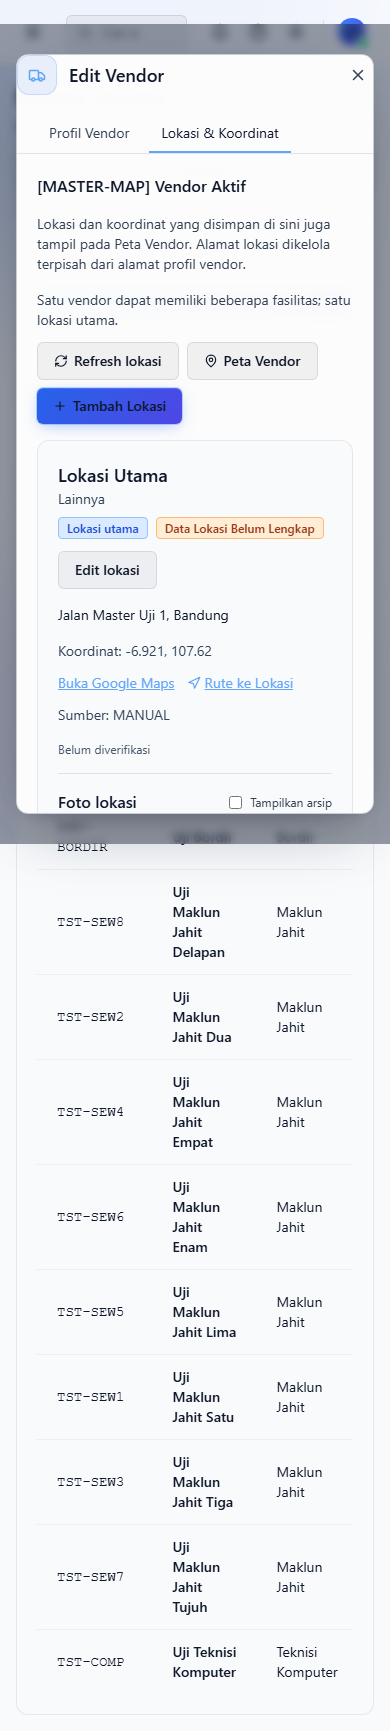
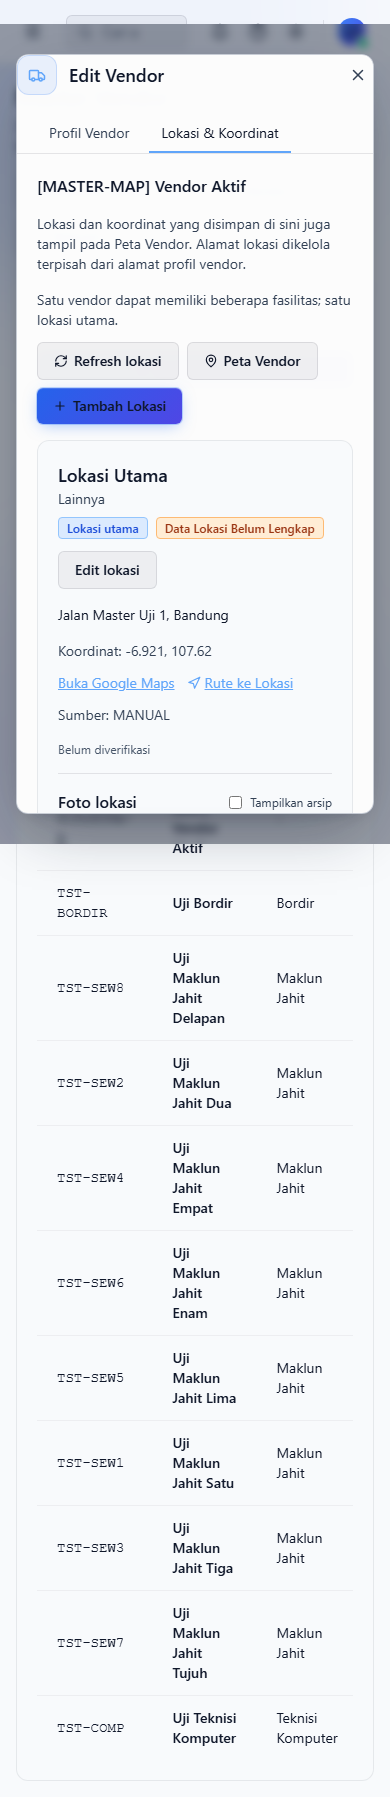
feat(vendor): unify vendor management navigation

diff --git a/src/components/layout/MainLayout.jsx b/src/components/layout/MainLayout.jsx
@@ -86,7 +86,6 @@ export default function MainLayout() {
     { to: '/locations', icon: MapPin, label: 'Lokasi Aset', moduleKey: 'locations' },
     { to: '/departments', icon: Building2, label: 'Struktur Organisasi', moduleKey: 'departments' },
     { to: '/asset-responsibles', icon: UserCheck, label: 'Penanggung Jawab', moduleKey: 'asset_responsibles' },
-    { to: '/vendors', icon: Truck, label: 'Vendor', moduleKey: 'vendors' },
   ];
 
   const assetItems = [
@@ -99,6 +98,7 @@ export default function MainLayout() {
   ];
 
   const { hasAccess } = useRolePermissions();
+  const canAccessActiveVendors = ['super_admin', 'hrd'].includes(role?.role_name) && hasAccess('vendors');
   const visibleNavItems = navItems.filter(item => !item.moduleKey || hasAccess(item.moduleKey));
   const visibleMasterDataItems = masterDataItems.filter(item => !item.moduleKey || hasAccess(item.moduleKey));
   const visibleAssetItems = assetItems.filter(item => !item.moduleKey || hasAccess(item.moduleKey));
@@ -213,22 +213,23 @@ export default function MainLayout() {
             </NavLink>
           ))}
 
-          {['super_admin', 'hrd', 'direksi', 'sourcing'].includes(role?.role_name) && (hasAccess('vendor_management') || hasAccess('vendor_followups') || hasAccess('vendor_map')) && (
+          {['super_admin', 'hrd', 'direksi', 'sourcing'].includes(role?.role_name) && (canAccessActiveVendors || hasAccess('vendor_management') || hasAccess('vendor_followups') || hasAccess('vendor_map')) && (
             <>
               <SectionLabel>Manajemen Vendor</SectionLabel>
-              {hasAccess('vendor_management') && <>
-              <NavLink to="/vendor" end onClick={() => setSidebarOpen(false)} className={navLinkClass}>
+              {hasAccess('vendor_management') && <NavLink to="/vendor" end onClick={() => setSidebarOpen(false)} className={navLinkClass}>
                 <Home size={16} className="flex-shrink-0" /> Dashboard Vendor
-              </NavLink>
-              <NavLink
+              </NavLink>}
+              {canAccessActiveVendors && <NavLink to="/vendors" onClick={() => setSidebarOpen(false)} className={navLinkClass}>
+                <Truck size={16} className="flex-shrink-0" /> Vendor Aktif
+              </NavLink>}
+              {hasAccess('vendor_management') && <NavLink
                 to="/vendor/database"
                 onClick={() => setSidebarOpen(false)}
                 className={navLinkClass}
               >
                 <Users size={16} className="flex-shrink-0" />
-                Database Calon Vendor
-              </NavLink>
-              </>}
+                Calon Vendor
+              </NavLink>}
               {hasAccess('vendor_followups') && <NavLink to="/vendor/followups" onClick={() => setSidebarOpen(false)} className={navLinkClass}>
                 <MessageSquare size={16} className="flex-shrink-0" /> Follow-Up Vendor
               </NavLink>}

diff --git a/src/pages/VendorsPage.jsx b/src/pages/VendorsPage.jsx
@@ -1,4 +1,5 @@
 import { lazy, Suspense, useState, useEffect, useCallback, useRef } from 'react';
+import { Link } from 'react-router-dom';
 import { supabase } from '../lib/supabase';
 import { useAuth } from '../contexts/AuthContext';
 import { useRolePermissions } from '../hooks/useRolePermissions';
@@ -164,12 +165,16 @@ export default function VendorsPage() {
       <div className="flex flex-col sm:flex-row sm:items-center justify-between gap-4">
         <div>
           <h1 className="text-2xl md:text-3xl font-semibold text-white tracking-tight">Master Vendor</h1>
-          <p className="text-sm text-ink-400 mt-1">Kelola daftar vendor dan supplier</p>
+          <p className="text-sm text-ink-400 mt-1">Data vendor operasional, status aktif/nonaktif, lokasi dan koordinat</p>
         </div>
+        <div className="flex flex-wrap gap-2">
+        {hasAccess('vendor_management') && <Link to="/vendor" className="btn-secondary text-sm">Dashboard Vendor</Link>}
+        {canReadLocations && <Link to="/vendor/map" className="btn-secondary text-sm"><MapPin size={14} /> Peta Vendor</Link>}
         <button onClick={fetchVendors} className="btn-secondary text-sm" disabled={loading}>
           <RefreshCw size={14} className={`${loading ? 'animate-spin' : ''}`} />
           Refresh
         </button>
+        </div>
       </div>
 
       <div className="card">

diff --git a/src/lib/permissions.js b/src/lib/permissions.js
@@ -9,7 +9,7 @@ export const MODULES = [
   { key: 'locations', label: 'Lokasi Aset', icon: 'MapPin' },
   { key: 'departments', label: 'Struktur Organisasi', icon: 'Building2' },
   { key: 'asset_responsibles', label: 'Penanggung Jawab', icon: 'UserCheck' },
-  { key: 'vendors', label: 'Vendor', icon: 'Truck' },
+  { key: 'vendors', label: 'Vendor: Data Operasional / Vendor Aktif', icon: 'Truck' },
   { key: 'vendor_management', label: 'Vendor: Dashboard & Database Calon', icon: 'Users' },
   { key: 'vendor_followups', label: 'Vendor: Follow-Up & Aktivitas', icon: 'PhoneCall' },
   { key: 'vendor_samples', label: 'Vendor: Pengujian Sampel', icon: 'ClipboardList' },

diff --git a/docs/vendor-management/VENDOR_NAVIGATION_INTEGRATION_20261110.md b/docs/vendor-management/VENDOR_NAVIGATION_INTEGRATION_20261110.md
@@ -1,0 +1,86 @@
+# Integrasi navigasi Manajemen Vendor — 10 November 2026
+
+Status **selesai dan diuji lokal; belum di-deploy**. User memilih menyatukan menu
+menjadi Dashboard, Vendor Aktif, Calon Vendor, Follow-Up dan Peta dalam satu kelompok
+Manajemen Vendor. Ini melanjutkan perubahan input koordinat Master Vendor pada
+commit `ec617b81`; deployment kedua perubahan tetap memerlukan persetujuan user.
+
+## Susunan akhir
+
+| Menu | Alamat tetap | Fungsi |
+|---|---|---|
+| Dashboard Vendor | `/vendor` | Ringkasan sourcing, aktivitas, tugas dan kelengkapan lokasi |
+| Vendor Aktif | `/vendors` | Master operasional existing, kontak, status dan lokasi/koordinat |
+| Calon Vendor | `/vendor/database` | Profil kandidat dan tahapan kualifikasi |
+| Follow-Up Vendor | `/vendor/followups` | Riwayat komunikasi dan tugas tindak lanjut |
+| Peta Vendor | `/vendor/map` | Titik lokasi vendor aktif maupun calon vendor sesuai filter/izin |
+
+Tautan Vendor pada Master Data dipindahkan ke kelompok Manajemen Vendor dengan
+nama **Vendor Aktif**. Halaman master tetap mempertahankan pengelolaan status
+aktif/nonaktif existing; tidak menyembunyikan data nonaktif atau mengubah filter
+secara diam-diam. URL `/vendors` dan seluruh referensi aset/kontrak tetap sama.
+
+Dashboard mendapat tautan terpisah Vendor Aktif dan Calon Vendor. Halaman master
+mendapat tautan balik Dashboard Vendor dan Peta Vendor sesuai akses pengguna.
+Input koordinat/foto tetap berada pada halaman master melalui tombol Koordinat
+dan tab Lokasi & Koordinat; [laporan fitur tersebut](MASTER_VENDOR_COORDINATES_20261110.md).
+
+## Hubungan data dan akses
+
+Master operasional tetap pada `vendors`, profil sourcing pada `vendor_candidates`
+dan identitas terhubung melalui `vendor_id`. Lokasi/foto memakai backend Fase 3
+yang sama. Tidak ada penggabungan tabel, penyalinan massal vendor atau aktivasi calon
+vendor otomatis. Rumus KPI dan RPC dashboard tetap mengikuti implementasi existing;
+integrasi ini tidak menambahkan total gabungan master + kandidat yang berpotensi
+menghitung dua kali vendor terhubung.
+
+Menu Vendor Aktif memerlukan role Super Admin/HRD dan module key `vendors`, sesuai
+guard halaman master existing. Sourcing/Direksi tetap memakai halaman sourcing
+yang diizinkan. HRD yang hanya memiliki akses master tetap melihat kelompok
+Manajemen Vendor beserta Vendor Aktif, tanpa bergantung pada izin sourcing.
+Nama modul `vendors` pada pengaturan akses diperjelas menjadi Vendor: Data
+Operasional / Vendor Aktif; key dan baris permission database tidak diubah.
+
+Tidak ada perubahan pada route guard App.jsx, RLS, role, permission database,
+master/aset/kontrak, schema/migration, environment, dependency atau data produksi.
+Tidak melakukan push Git atau deployment.
+
+## File perubahan
+
+- `src/components/layout/MainLayout.jsx`: pindahkan master ke kelompok vendor,
+  urutan lima menu dan tampilkan sesuai role/module.
+- `src/pages/vendor/VendorDashboardPage.jsx`: tautan Vendor Aktif/Calon Vendor.
+- `src/pages/VendorsPage.jsx`: tautan Dashboard/Peta dan keterangan data operasional.
+- `src/lib/permissions.js`: label modul master diperjelas; key tetap `vendors`.
+- `scripts/test-vendor-navigation-browser.mjs`: browser test navigasi dan akses.
+- Dokumen, JSON/log hasil dan screenshot sintetis pendukung.
+
+## Verifikasi
+
+| Pengujian | Hasil |
+|---|---|
+| Navigasi terpadu | **7 PASS**: urutan dan tidak duplikat, tautan silang, route, mobile, master-only, pembatasan role dan checksum |
+| Regresi input koordinat master | **16 PASS**: cancel/validasi, simpan/edit, multi-fasilitas, peta/rute, guard, retry, vendor baru dan mobile |
+| Build | Exit **0**, 1580 modul, Vite 6,64 detik, service worker 159 ms |
+| Baseline | Enam checksum master/aset/profil/role/permission/notifikasi Docker identik setelah tes/cleanup |
+
+Total **23 pemeriksaan browser lulus**. Test navigasi memakai backend Docker nyata;
+fixture izin master-only disimulasikan pada response API browser tanpa menulis
+role_permissions. Awalnya fixture HRD Docker tidak memiliki key `vendors`, sehingga
+uji positif master-only belum mewakili skenario yang dimaksud. Fixture browser
+diperjelas dengan `vendors=true` dan modul sourcing=false, lalu seluruh uji lulus.
+Guard role tetap diperiksa menggunakan akun/JWT lokal nyata.
+
+RPC reminder dinonaktifkan melalui mock pada test navigasi agar pemeriksaan menu
+tidak menulis notifikasi. Tidak ada request tes ke Supabase/Google Maps produksi;
+tile OSM menggunakan **TEST TILE**. Regresi koordinat memakai fixture bisnis Docker
+yang dihapus setelah selesai. Tidak menguji CRUD modul aset/kontrak produksi.
+
+Bukti: [navigasi](phase3-evidence/VENDOR_NAVIGATION_BROWSER_RESULTS.json),
+[regresi master](phase3-evidence/MASTER_VENDOR_LOCATION_BROWSER_RESULTS.json),
+[build](phase3-evidence/VENDOR_NAVIGATION_BUILD_RESULTS.txt),
+[desktop](phase3-evidence/vendor-navigation-desktop.png),
+[mobile](phase3-evidence/vendor-navigation-mobile.png).
+Warning bundle utama >500 kB tetap ada. Peninjauan screenshot desktop/mobile dan
+`git diff --check` lulus. Deployment gabungan menunggu persetujuan user; tidak perlu
+migration baru karena backend lokasi sudah aktif.

diff --git a/docs/vendor-management/HANDOFF_CODEX.md b/docs/vendor-management/HANDOFF_CODEX.md
@@ -3,6 +3,15 @@
 **Dokumen serah terima untuk agent penerus (Codex).** Disusun 6 November 2026.
 Dokumen induk: [AUDIT_DAN_RENCANA_IMPLEMENTASI.md](AUDIT_DAN_RENCANA_IMPLEMENTASI.md) · Spesifikasi user: [HARMAS_Spesifikasi_Modul_Vendor_untuk_Codex.md](HARMAS_Spesifikasi_Modul_Vendor_untuk_Codex.md)
 
+**Integrasi menu terbaru 10 November:** user memilih satu kelompok Manajemen Vendor:
+Dashboard Vendor, Vendor Aktif, Calon Vendor, Follow-Up Vendor, Peta Vendor. Vendor
+di Master Data dipindahkan menjadi Vendor Aktif, tetap URL `/vendors` dan key
+`vendors`; guard role SA/HRD dipertahankan. Tautan silang Dashboard/master ditambah.
+**Selesai lokal: 7 navigasi + 16 regresi master PASS, build PASS; belum deployment**.
+Tidak ada perubahan DB/RLS/KPI/migration; data dan koordinat memakai backend yang
+sama. [Laporan integrasi](VENDOR_NAVIGATION_INTEGRATION_20261110.md). Perubahan ini
+bersama input koordinat master masih menunggu persetujuan deployment gabungan.
+
 **Permintaan terbaru 10 November — input koordinat juga di Master Data → Vendor:**
 implementasi lokal selesai, **16 browser Master + 22 regresi lokasi/foto PASS**, build
 PASS. Tombol Koordinat per baris, tab Lokasi & Koordinat di edit, serta Simpan dan Isi

diff --git a/docs/vendor-management/MASTER_VENDOR_COORDINATES_20261110.md b/docs/vendor-management/MASTER_VENDOR_COORDINATES_20261110.md
@@ -1,5 +1,10 @@
 # Input koordinat pada Master Vendor — 10 November 2026
 
+**Pembaruan integrasi menu:** user kemudian memilih satu kelompok Manajemen Vendor.
+Menu master kini berlabel **Vendor Aktif** di kelompok tersebut pada implementasi
+lokal; URL tetap `/vendors`. [Laporan integrasi](VENDOR_NAVIGATION_INTEGRATION_20261110.md).
+Kedua perubahan frontend belum di-deploy.
+
 Status **selesai dan diuji lokal; belum di-deploy**. User meminta input koordinat
 juga tersedia pada Master Data → Vendor. Perubahan frontend memakai backend Fase 3
 yang sudah aktif, tanpa migration atau kolom tambahan pada tabel master `vendors`.
